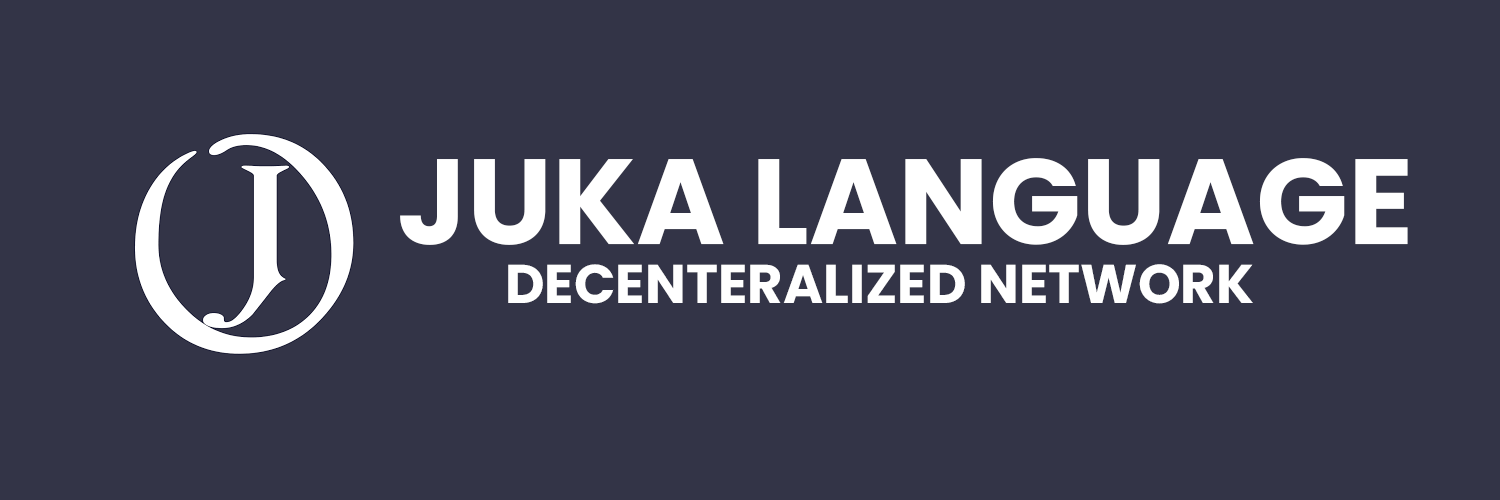
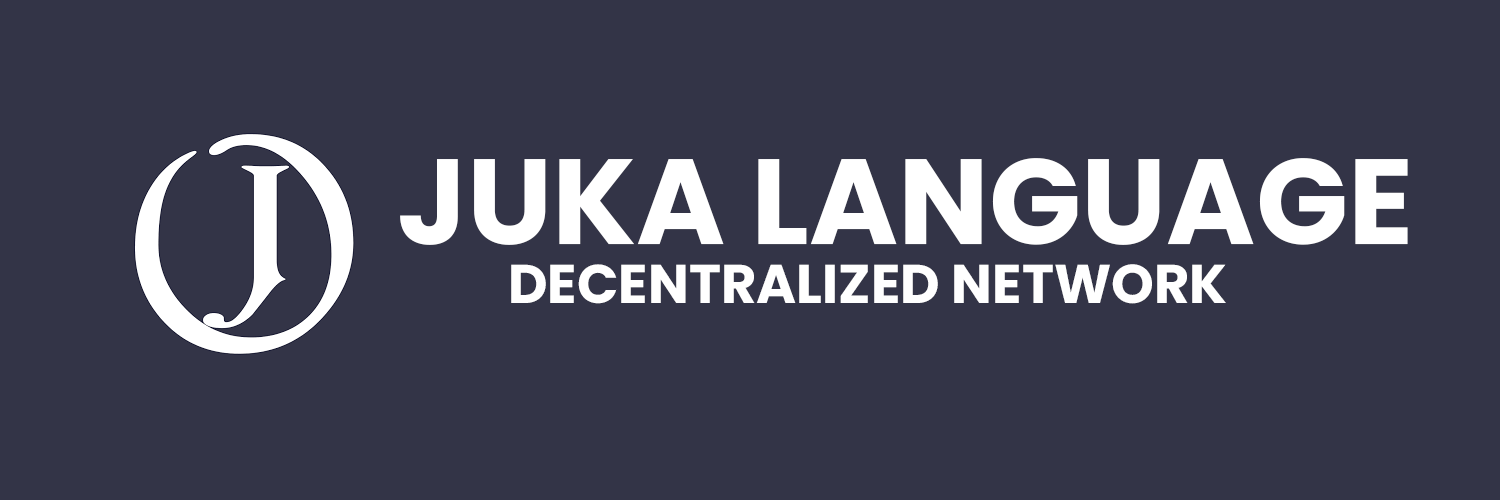
fixed spelling errors

Changed region(s): [[0.3373, 0.51, 0.828, 0.63]]

diff --git a/README.md b/README.md
@@ -4,7 +4,7 @@
 
 - [**What is JLDN?**](#about)
 - - [**What is the purpose?**](#used-for)
-- - [**How does our decenteralized network work?**](#how-our-decenteralized-network-works)
+- - [**How does our decentralized  network work?**](#how-our-decentralized-network-works)
 - [**What is a `manifest.yaml` file?**](#manifest-file)
 - [**Why are installed libraries encrypted?**](#encryption)
 # About
@@ -12,8 +12,8 @@
 ## Used For
 **JLDN** is a package manager created and maintained by the Juka Language organization. It allows users to create, publish, and use libraries. *For example* if you were creating a web server, instead of recreating the whole https protocal you can install a juka library that gives you a solid framework.
 
-## How our decenteralized network works
-Our decenteralized network is how JLDN is able to recieve package data. This includes the libraries contents. We pull data straight from github making it easier, and faster to recieve packages. 
+## How our decentralized  network works
+Our decentralized network is how JLDN is able to recieve package data. This includes the libraries contents. We pull data straight from github making it easier, and faster to recieve packages. 
 
 # Manifest File
 The `manifest.yaml` file is used to give specifications about a package. This includes the current version, description, and content. 
